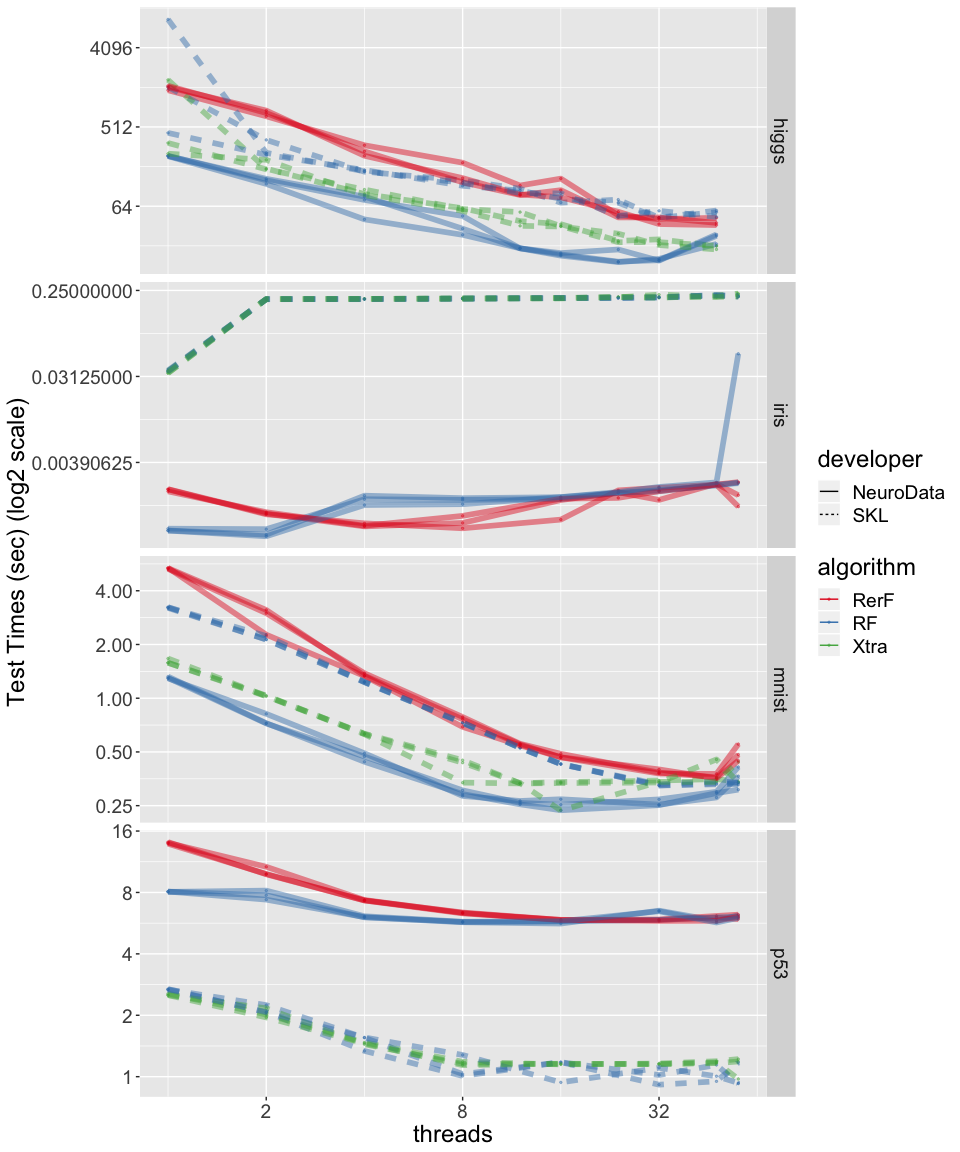
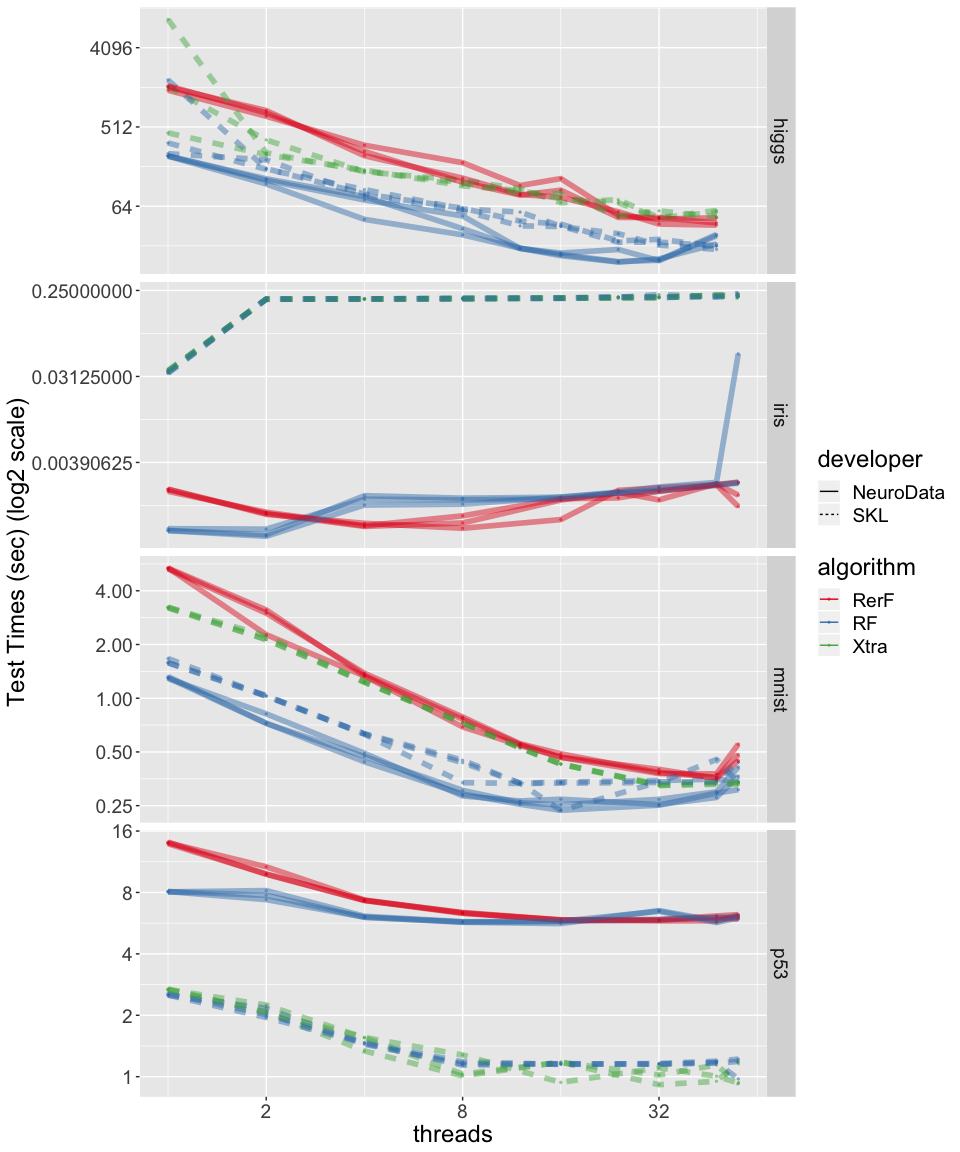
fix colors and labels on SK

diff --git a/docs/demos/comparisons/testing_times.rst b/docs/demos/comparisons/testing_times.rst
@@ -177,12 +177,12 @@ Read in measurements and plot (in R)
 .. code:: r
 
    dA <- fread("testing_times_DATA.csv")
+
+   ## Add factor variables
    dA$classifier <- factor(dA$classifier, levels = c("ND-pyRerF", "ND-pyRF", "Sk-Xtra", "Sk-RF"))
-
    dA$dataset <- factor(dA$dataset, levels = c("higgs","iris", "mnist", "p53"))
-   dA$algorithm <- factor(c("RerF", "RF", "RF", "Xtra")[as.numeric(dA$classifier)])
+   dA$algorithm <- factor(c("RerF", "RF", "Xtra", "RF")[as.numeric(dA$classifier)])
    dA$developer <- factor(c("NeuroData", "NeuroData", "SKL", "SKL")[as.numeric(dA$classifier)])
-
 
    lineSize <- c(rep(2,3), 1)
    lineAlpha <- c(rep(0.45, 3), 0.2)
